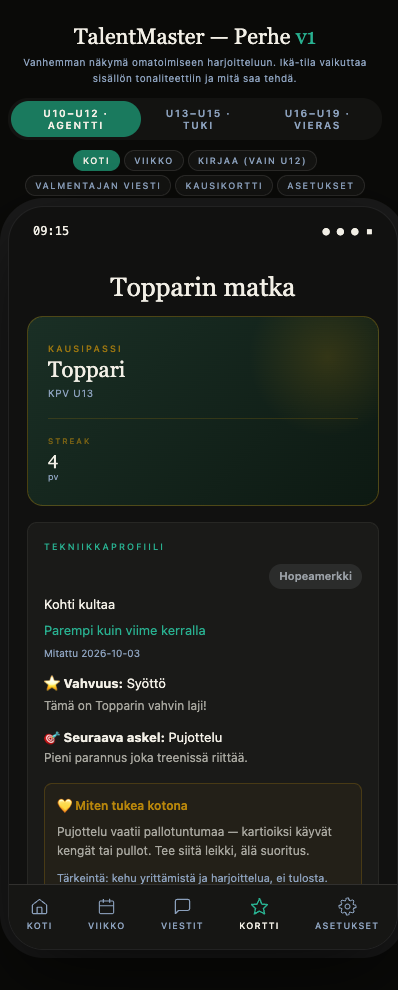
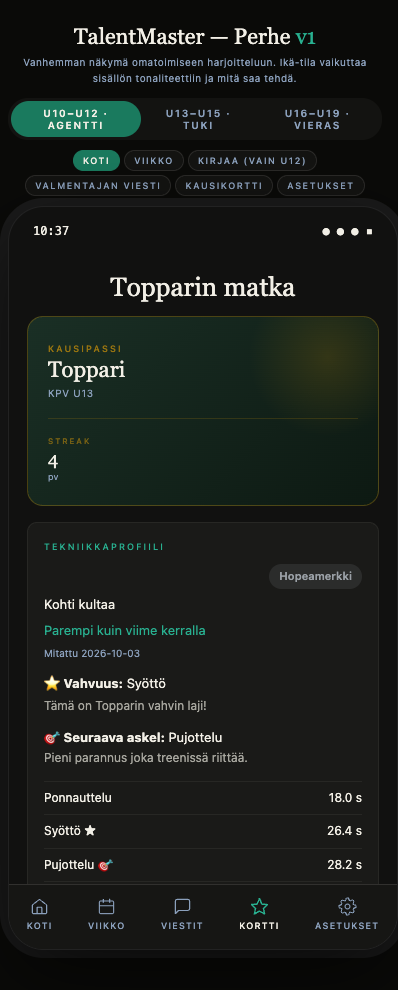
0a täydennys: pelaajan oma mittaus näkyy myönteisesti (tulos, MAS-arvo, oma parannus), ei rajoja/vyöhykkeitä/tavoiteviitteitä; päätöslokiin §7.22-poikkeus
- lib/tm_merkki_nakyma.js: + tmOmaParannus, tmOmaLuku (?v=2)
- Pelaaja_v7: lajitulokset, H-H-tulokset, Paransit N s, MAS-arvo (ei vyöhykkeitä), ennen→nyt palautettu
- Vanhempi_v2: omat lajitulokset palautettu
- docs/PAATOS_7_22_OMA_MITTAUS_2026-10-19.md

Changed region(s): [[0.0905, 0.7879, 0.9045, 0.9091], [0.1508, 0.2121, 0.1809, 0.2424], [0.0905, 0.2121, 0.1206, 0.2424]]

diff --git a/TalentMaster_Pelaaja_v7.html b/TalentMaster_Pelaaja_v7.html
@@ -555,7 +555,7 @@ input::placeholder,textarea::placeholder{color:#8C8B86;opacity:1}
 <script src="lib/tm_tanaan_kentta.js?v=4"></script>   <!-- K1: rA1Kentta-lohkot (tila, osat, päivän treeni, kuittaus) · C: tmKenttaPelaajalle -->
 <script src="lib/tm_mediaviesti.js?v=8"></script>   <!-- R6.4: linkin tunnistus + tyyppinimet (pelaajan klippi-ketju) -->
 <script src="lib/tm_klippi_perhe.js?v=3"></script>   <!-- R6.4 PR 2: Valmentajalta klippi (Tänään) -->
-<script src="lib/tm_merkki_nakyma.js?v=1"></script>   <!-- palaute-näkyvyys 0a: merkkisääntö (Kohti seuraavaa, Parempi kuin viime kerralla; ei sekunteja) -->
+<script src="lib/tm_merkki_nakyma.js?v=2"></script>   <!-- palaute-näkyvyys 0a: merkkisääntö + oma mittaus (Kohti seuraavaa, oma parannus; ei rajoja) -->
 <script src="lib/tm_viikkokatsaus.js?v=2"></script>   <!-- K4: viikkokatsaus + jakson päätöskortti (Kenttä-lipun takana) -->
 <script src="lib/tm_reitin_valinta.js?v=3"></script>   <!-- K3: pelaaja valitsee seuraavan reitin + sitoumus Tänään-sivulla (Kenttä-lipun takana) -->
 <script src="lib/tm_kotiharjoitteet.js?v=1"></script>   <!-- B 3/3: jakson kotiharjoitteet (jaksofokus.tukiosa.harjoitteet snapshot) + seuran nimi lähdemerkintänä -->   <!-- K0: Kenttä-komponentti (ei vielä käytössä näkymissä) -->
@@ -1913,25 +1913,30 @@ async function _lataaTekniikka() {
   } catch (e) { console.warn('[tekniikka]', e.message); }
 }
 
-// MAS-kortti — vain sanoin (palaute-näkyvyys 0a, Tero 19.10.2026): MAS-raakaluku, harjoitteluvyöhykkeet (km/h) ja m/s-trendi POISTETTU pelaajan näkymästä.
-// Näkyy kun MAS-data olemassa; parannus kerrotaan vain sanoin ("hyvä kehityssuunta") omaan edelliseen mittaukseen verrattuna, ellei parantunut ei mitään.
+// MAS-kortti — pelaajan OMA MAS-arvo näkyy (täydennys 19.10.2026, §7.22-poikkeus oma mittaus); EI harjoitteluvyöhykkeitä (km/h-vyöhykkeet = valmentajan työkalu), EI vertailua/rajoja.
+// Parannus vain kun MAS parani ("hyvä kehityssuunta" + oma ero); heikompi tulos näytetään ilman kommenttia.
 function rMinaMAS() {
   if (!_pelaaja) return '';
   const hv = _pelaaja.hh_viimeisin || {};
   const masKmh = (_pelaaja.mas_kmh != null) ? _pelaaja.mas_kmh : (hv.mas != null ? hv.mas : null);
   if (masKmh == null) return '';
+  const masMs = (_pelaaja.mas_ms != null) ? _pelaaja.mas_ms : Math.round((masKmh / 3.6) * 100) / 100;
+  const stage = (typeof _laskeStage === 'function') ? _laskeStage(_pelaaja.syntymaVuosi, _pelaaja) : '2_rakentaja';
+  const r1 = function(x){ return Math.round(x * 10) / 10; };
   const box = function(inner){ return '<div style="background:var(--bg3);padding:20px;margin:14px 20px 0;border:.5px solid rgba(242,239,230,.08)">' + inner + '</div>'; };
   const ots = '<div style="font-family:\'Cormorant Garamond\',serif;font-size:18px;font-weight:400;color:var(--text);margin-bottom:12px;letter-spacing:.01em">' + T('juoksumoottori') + '</div>';
-  let parani = false;
+  let trend = '';
   const hist = Array.isArray(_pelaaja.mas_historia) ? _pelaaja.mas_historia.filter(function(x){ return x != null; }) : [];
   if (hist.length >= 2) {
     const toMs = function(h){ return (h.ms != null) ? h.ms : (h.kmh != null ? h.kmh / 3.6 : null); };
     const a = toMs(hist[0]), b = toMs(hist[hist.length - 1]);
-    parani = (a != null && b != null && (b - a) > 0.05);
+    if (a != null && b != null && (b - a) > 0.05) trend = '<div style="font-size:12px;margin-top:10px;color:#28B090">↑ +' + (Math.round((b - a) * 100) / 100).toFixed(2).replace('.', ',') + ' m/s — ' + T('hyva_kehityssuunta') + '</div>';
   }
-  return box(ots
-    + '<div style="font-size:13px;color:var(--text)">' + T('vauhtisi_on_mitattu_hienoa_tyota') + '</div>'
-    + (parani ? '<div style="font-size:12px;margin-top:10px;color:#28B090">' + T('hyva_kehityssuunta') + '</div>' : ''));
+  const arvo = (stage === '3_showcase')
+    ? '<div style="display:flex;align-items:baseline;gap:10px"><div style="font-family:\'Cormorant Garamond\',serif;font-size:40px;font-weight:300;color:#28B090;line-height:1">' + masMs.toFixed(2) + '</div><div style="font-size:11px;color:#8C8B86">m/s · ' + r1(masKmh) + ' km/h</div></div>'
+    : '<div style="display:flex;align-items:baseline;gap:10px"><div style="font-family:\'Cormorant Garamond\',serif;font-size:40px;font-weight:300;color:#28B090;line-height:1">' + r1(masKmh) + '</div><div style="font-size:22px">⚡</div></div>'
+      + (stage === '1_leikkija' ? '<div style="font-size:12px;color:var(--text);margin-top:10px">' + T('mita_isompi_luku_sita_pidempaan') + '</div>' : '<div style="font-size:13px;color:var(--text);font-weight:600;margin-top:6px">' + T('aerobinen_kapasiteetti') + '</div>');
+  return box(ots + arvo + trend);
 }
 
 // §5.3 tekniikkatavoite LAPSEN KIELELLÄ — luetaan pikakentistä (§26), tkLajiViite-vertailu (window.TM_TESTIT).
@@ -2067,6 +2072,10 @@ function _minaTavoiteRivit(p, d) {
       + '<div style="font-size:12px;color:#8C8B86">' + _pT('vanhempi.tek_pieni_parannus') + '</div></div>';
   }
 
+  // 📈 Oma parannus VAIN kun parani (täydennys 19.10.2026): "Paransit kokonaisaikaasi 4 sekuntia". Ei parantunut → ei mitään. Ei merkkirajoja, ei matkaa kultaan.
+  const _par = (window.TM_MERKKI_NAKYMA && window.TM_MERKKI_NAKYMA.tmOmaParannus) ? window.TM_MERKKI_NAKYMA.tmOmaParannus(p.tk_kokonaistulos_edellinen, p.tk_kokonaistulos_viimeisin) : null;
+  if (_par) h += '<div style="font-size:13px;color:#28B090;margin-top:10px">' + _pT('paransit_kokonaisaikaasi_n_sekunti', { n: window.TM_MERKKI_NAKYMA.tmOmaLuku(_par.ero) }) + '</div>';
+
   // 🔥 Kultaikkuna lapsen kielellä, VAIN ≤ 12 v — EI uhkakehystä
   if (ika != null && ika <= 12) {
     h += '<div style="font-size:12px;color:#8C8B86;margin-top:10px">' + _pT('nyt_on_paras_ika_oppia') + '</div>';
@@ -2150,7 +2159,19 @@ function rMinaFyysinenTavoite() {
   const edel = _minaHhEdellinen(p);
   if (p.hh_taso != null && edel.taso != null && (p.hh_taso - edel.taso) > 0) {
     h += '<div style="font-size:14px;color:#28B090;margin-top:10px">' + T('kehityit_viime_kerrasta_hienoa') + '</div>';
-    // Palaute-näkyvyys 0a: aiemmat → nykyiset luvut (sekunnit/cm) poistettu; parannus vain sanoin.
+    // Sekunnit/senttimetrit saa näyttää (EI tasolukuja, EI vertailua muihin, §7.22): ensimmäinen parantunut mittaus.
+    const _tk = ['lin30m', 'lin10m', 'kasirata', 'cmj'];
+    for (let i = 0; i < _tk.length; i++) {
+      const k = _tk[i], nyt = _minaHhArvo(p, k), ennen = edel.hv ? edel.hv[k] : null;
+      const m = (typeof HH_TESTI_MAP !== 'undefined') ? HH_TESTI_MAP[k] : null;
+      if (nyt == null || ennen == null || !m || isNaN(nyt) || isNaN(ennen)) continue;
+      const parempi = m.pienempi ? (Number(nyt) < Number(ennen)) : (Number(nyt) > Number(ennen));
+      if (!parempi) continue;
+      const r1 = function (x) { return Math.round(Number(x) * 10) / 10; };
+      h += '<div style="font-size:13px;color:#8C8B86;margin-top:2px">' + _MINA_HHNIMI[k] + ': ' + r1(ennen) + ' ' + m.yksikko + ' → ' + r1(nyt) + ' ' + m.yksikko + '</div>';
+      break;
+    }
+    // oma parannus (täydennys 19.10.2026): ensimmäinen parantunut mittaus ennen → nyt; ei tavoitelukua
   }
   // Huipputaso (paras luokka jossain testissä) → ei tavoitetta, mutta positiivinen viesti. Tasolukua EI näytetä.
   let huippu = false;
@@ -2456,7 +2477,7 @@ function rMinaTekniikkaprofiili() {
         + d.hhTekn.map(function (r) {
             return '<div style="display:flex;justify-content:space-between;align-items:baseline;padding:8px 0;border-top:.5px solid rgba(242,239,230,.08)">'
               + '<span style="font-size:14px;color:var(--text)">' + r.nimi + '</span>'
-              + '<span style="font-size:15px;color:#28B090">⚽</span></div>';   // palaute-näkyvyys 0a: ei sekunteja
+              + '<span style="font-family:\'DM Sans\',sans-serif;font-size:15px;color:#28B090">' + r.aika + ' s</span></div>';   // oma mittaus (täydennys 19.10.2026)
           }).join('')
         + '<div style="font-size:12px;color:#8C8B86;margin-top:10px">' + T('tekniikkakisassa_naet_viela_enemma') + '</div>';
     } else {
@@ -2467,6 +2488,7 @@ function rMinaTekniikkaprofiili() {
       + _body + '</div>';
   }
   const merkkiVari = { kulta: '#D4AF37', hopea: '#9AA0A6', pronssi: '#B87333' };
+  const lajiNimi = { ponnauttelu: T('vanhempi.laji_ponnauttelu'), syotto: T('vanhempi.laji_syotto'), pujottelu: T('vanhempi.laji_pujottelu'), kuljetus_laukaus: T('vanhempi.laji_kuljetus_laukaus') };
   let h = '<div style="background:var(--bg3);padding:20px;margin:14px 20px 0;border:.5px solid rgba(242,239,230,.08)">';
   h += '<div style="font-family:\'Cormorant Garamond\',serif;font-size:18px;font-weight:400;color:var(--text);margin-bottom:12px;letter-spacing:.01em">' + T('vanhempi.tek_profiili') + '</div>';
   // §7.22/§34: TKI-lukua EI näytetä pelaajalle (indeksi = tasoluku). Palaute-näkyvyys 0a (Tero 19.10.2026): nykyinen merkki + "Kohti {seuraava}"
@@ -2477,6 +2499,23 @@ function rMinaTekniikkaprofiili() {
   if (MN && MN.parempi) h += '<div style="font-size:13px;color:#28B090;margin-top:6px">' + T('vanhempi.merkki_parempi') + '</div>';
   // §5.3 tavoiterivit (pikakentät) — korvaa vanhat yksinkertaiset vahvuus/kehityskohde-rivit; fallback sisällä
   h += _minaTavoiteRivit(_pelaaja, d);
+  // Lajit sekunteina (lyhyempi = nopeampi). §7.22: EI palkkeja — täyttö oli suhde eliittiviitteeseen (= normivertailu +
+  // edistymispalkki). Itsevertailuun ei ole per-laji-historiaa → näytetään oma aika + ★ vahvuus / 🎯 seuraava askel.
+  const lajit = ['ponnauttelu', 'syotto', 'pujottelu', 'kuljetus_laukaus'];
+  const arvo = (id) => { const x = d.testit[id]; if (x == null) return null; if (typeof x === 'object') return (x.tulos != null ? x.tulos : x.paras); return x; };
+  const vals = lajit.map(id => ({ id: id, val: parseFloat(arvo(id)) })).filter(x => !isNaN(x.val));
+  if (vals.length) {
+    const tkiV = _pelaaja && _pelaaja.tki_vahvuus, tkiK = _pelaaja && _pelaaja.tki_kehityskohde;
+    h += '<div style="margin-top:12px;display:flex;flex-direction:column">';
+    vals.forEach(x => {
+      const mark = (x.id === tkiV) ? ' ★' : (x.id === tkiK) ? ' 🎯' : '';
+      h += '<div style="display:flex;justify-content:space-between;align-items:baseline;padding:7px 0;border-top:.5px solid rgba(242,239,230,.08)">'
+        + '<span style="font-size:13px;color:var(--text)">' + (lajiNimi[x.id] || x.id) + mark + '</span>'
+        + '<span style="font-family:\'DM Sans\',sans-serif;font-size:14px;color:#28B090">' + x.val.toFixed(1) + ' s</span></div>';
+    });
+    h += '</div>';
+  }
+  // Oma parannus ('Paransit kokonaisaikaasi N sekuntia') tulee _minaTavoiteRivit:stä (tmOmaParannus) — ei tuplana tässä.
   h += '</div>';
   return h;
 }

diff --git a/tests/palaute_nakyvyys_0a.test.js b/tests/palaute_nakyvyys_0a.test.js
@@ -42,12 +42,12 @@ describe('tmMerkkiNakyma — yksi sääntö pelaajalle ja huoltajalle', () => {
   });
 });
 
-describe('lähdekoodivartija: pelaajan ja huoltajan merkki-/tekniikka-/vauhtipinnoilla ei sekunteja, matkaa eikä tasokuvauksia', () => {
+describe('lähdekoodivartija: pelaajan ja huoltajan pinnoilla ei rajoja, vyöhykkeitä, tavoiteviitteitä eikä matkaa merkkiin', () => {
   const PINNAT = [[PEL, 'function rMinaTekniikkaprofiili('], [PEL, 'function _minaTavoiteRivit('], [PEL, 'function rMinaMAS('], [PEL, 'function rMinaFyysinenTavoite('],
     [PEL, 'function _tekTavoiteSaate('], [V2, 'function rVanhempiTekniikka(']];
-  it.each(PINNAT.map(([s, f]) => [f, pura(s, f)]))('%s: ei " s"-yksikköä, km/h, m/s, nuolta eikä matka/tavoite-lukuja', (f, koodi) => {
-    const koodiIlmanKommentteja = koodi.replace(/\/\/[^\n]*/g, '');
-    expect(koodiIlmanKommentteja).not.toMatch(/' s'|\+ ' s\b| s<\/|km\/h|m\/s|toFixed|gap_s|tkSekuntibudjetti|matka_tavoite|tek_matka|tek_nyt_tavoite|paransit|→ '/);
+  it.each(PINNAT.map(([s, f]) => [f, pura(s, f)]))('%s: ei vyöhykkeitä, tavoite-/viiterajoja, matkaa eikä mitalirajoja', (f, koodi) => {
+    const k = koodi.replace(/\/\/[^\n]*/g, '');
+    expect(k).not.toMatch(/gap_s|tkSekuntibudjetti|matka_tavoite|tek_matka|tek_nyt_tavoite|tkLajiViite|tkValitavoite|_minaValitavoite|harjoitteluvyohyk|kevyt_alle|kehittava|kova_yli|perus_65|kehitys_80|huippu_95|masKmh \* 0|T\('tavoite'\)/);
   });
   it('Pelaaja: ADAR/FYS/PSY-tasokuvaukset ja "A/B mitattu" -rengas poissa pelaajan kortilta', () => {
     expect(PEL).not.toMatch(/TM_ADAR_RUBRIIKKI\.alyTaso\(|TM_KORTTI_RUBRIIKIT\.(fysTaso|psyTaso)\(|a_b_mitattu|_fcRengasSVG|F\.rengas/);
@@ -65,6 +65,21 @@ describe('lähdekoodivartija: pelaajan ja huoltajan merkki-/tekniikka-/vauhtipin
       expect(L.fi.vanhempi[k], k).toBeTruthy(); expect(L.en.vanhempi[k], k).toBeTruthy();
       expect(odotus, k).toContain('vanhempi.' + k); expect(era['vanhempi.' + k].sv, k).toBe('');
     }
+  });
+});
+
+describe('oma mittaus (täydennys 19.10.2026): oma tulos, oma ennätys ja oma parannus näkyvät myönteisesti; heikompi tulos ilman kommenttia', () => {
+  const { tmOmaParannus, tmOmaLuku } = require('../lib/tm_merkki_nakyma.js');
+  it('tmOmaParannus: sekunnit (pienempi parempi) ja cm/km/h (suurempi parempi); heikompi/sama/puuttuva → null (ei kommenttia)', () => {
+    expect(tmOmaParannus(70, 66)).toEqual({ ero: 4 });
+    expect(tmOmaParannus(10.4, 10.1)).toEqual({ ero: 0.3 });
+    expect(tmOmaParannus(30, 33, { suurempi: true })).toEqual({ ero: 3 });
+    expect(tmOmaParannus(66, 70)).toBeNull(); expect(tmOmaParannus(66, 66)).toBeNull(); expect(tmOmaParannus(null, 66)).toBeNull();
+  });
+  it('tmOmaLuku: desimaalipilkku ("Paransit 0,3 s")', () => { expect(tmOmaLuku(0.3)).toBe('0,3'); expect(tmOmaLuku(4)).toBe('4,0'); });
+  it('Pelaajan MAS-kortti: oma MAS-arvo näkyy, parannus myönteisesti, vyöhykkeitä ei', () => {
+    const koodi = pura(PEL, 'function rMinaMAS(');
+    expect(koodi).toMatch(/masKmh/); expect(koodi).toMatch(/hyva_kehityssuunta/);
   });
 });
 

diff --git a/tests/kortit_7_22_vahti.test.js b/tests/kortit_7_22_vahti.test.js
@@ -100,7 +100,7 @@ describe('§7.22-vahti · Pelaaja_v7 renderöi rikkaalla datalla ilman tasolukuj
       expect(fc).toContain('✓');
     });
   }
-  it('Tekniikkaprofiili: ei TKI-lukua, ei eliittisuhde-palkkeja, ei negatiivista trendiä; EI sekunteja; merkki + "Kohti seuraavaa" (palaute-näkyvyys 0a)', () => {
+  it('Tekniikkaprofiili: ei TKI-lukua, ei eliittisuhde-palkkeja, ei negatiivista trendiä; oma tulos näkyy neutraalisti; merkki + "Kohti seuraavaa" (palaute-näkyvyys 0a + täydennys)', () => {
     const c = pelaajaCtx(rikas(13, { tk_kokonaistulos_edellinen: 70, tk_kokonaistulos_viimeisin: 66 }));
     c._tekniikkaData = { tki: 72, merkki: 'hopea', vahvuudet: [], kehityskohteet: [], testit: { syotto: 9.2, pujottelu: 12.4 }, trendi: { ero: 3, parani: false }, kpl: 2 };
     const h = c.rMinaTekniikkaprofiili();
@@ -108,7 +108,7 @@ describe('§7.22-vahti · Pelaaja_v7 renderöi rikkaalla datalla ilman tasolukuj
     skannaa(tx, 'tekniikka');
     expect(tx).not.toContain('72');
     expect(h, 'palkin täyttö = suhde eliittiviitteeseen').not.toMatch(/width:\s*\d+%/);
-    expect(tx).not.toContain('9.2'); expect(tx).not.toMatch(/\b\d+(\.\d+)? s\b/);
+    expect(tx).toContain('9.2 s'); expect(tx).not.toMatch(/matka|vyöhyk|alle \d/i);   // oma tulos saa näkyä (täydennys 19.10.2026), rajat/vyöhykkeet eivät
     expect(tx).toContain(LANG.TM_LANG.fi.pelaaja.tk_merkki_hopea); expect(tx).toContain('Kohti kultaa'); expect(tx).toContain('Parempi kuin viime kerralla');
     const c2 = pelaajaCtx(rikas(13, { tk_kokonaistulos_edellinen: 66, tk_kokonaistulos_viimeisin: 70 }));   // ei parantunut → ei mitään vertailutekstiä
     c2._tekniikkaData = c._tekniikkaData;
@@ -180,13 +180,13 @@ describe('§7.22-vahti · Vanhempi_v2 (huoltaja)', () => {
     expect(tx).toContain('Streak'); expect(tx).toContain('9');
     expect(tx).toContain('Omat ennätykset'); expect(tx).toContain('4.0 s');
   });
-  it('tekniikka: ei TKI-lukua eikä eliittisuhde-palkkeja; EI sekunteja; merkki + Kohti seuraavaa + vahvuus + miten tukea (palaute-näkyvyys 0a)', () => {
+  it('tekniikka: ei TKI-lukua eikä eliittisuhde-palkkeja; oma tulos; merkki + Kohti seuraavaa + vahvuus + miten tukea (palaute-näkyvyys 0a)', () => {
     const h = vanhempiCtx(lapsi).rVanhempiTekniikka();
     const tx = teksti(h);
     skannaa(tx, 'huoltajan tekniikka');
     expect(tx).not.toContain('72');
     expect(h).not.toMatch(/width:\s*\d+%/);
-    expect(tx).not.toContain('9.2'); expect(tx).not.toMatch(/\b\d+(\.\d+)? s\b/); expect(tx).not.toMatch(/matka|→/i);
+    expect(tx).toContain('9.2 s'); expect(tx).not.toMatch(/matka|→|tavoite/i);   // oma tulos näkyy; ei tavoite-/rajalukuja
     expect(tx).toContain('Kohti kultaa'); expect(tx).toContain('Parempi kuin viime kerralla'); expect(tx).toContain(LANG.TM_LANG.fi.vanhempi.tek_miten_tukea);
   });
   it('tekniikka: ylin merkki → vain se (ei "Kohti"); ei parantunut → ei vertailutekstiä', () => {

diff --git a/TalentMaster_Vanhempi_v2.html b/TalentMaster_Vanhempi_v2.html
@@ -139,7 +139,7 @@ body.demo-mode #devChrome{display:block}
 <script src="lib/tm_kentta.js?v=5"></script>   <!-- K0: Kenttä-komponentti (ei vielä käytössä näkymissä) -->
 <script src="lib/tm_mediaviesti.js?v=8"></script>   <!-- R6.4: linkin tunnistus + tyyppinimet -->
 <script src="lib/tm_klippi_perhe.js?v=3"></script>   <!-- R6.4 PR 2: Katsokaa yhdessä / keskustelu -->
-<script src="lib/tm_merkki_nakyma.js?v=1"></script>   <!-- palaute-näkyvyys 0a: merkkisääntö (Kohti seuraavaa, Parempi kuin viime kerralla; ei sekunteja) -->
+<script src="lib/tm_merkki_nakyma.js?v=2"></script>   <!-- palaute-näkyvyys 0a: merkkisääntö + oma mittaus (Kohti seuraavaa, oma parannus; ei rajoja) -->
 <script src="lib/tm_kielletyt.js?v=1"></script>   <!-- palaute-näkyvyys 0a: sanavartija valmentajan vapaille teksteille (sama kuin Pelaaja_v7) -->
 <script src="lib/tm_appcheck.js?v=2"></script>
 <script src="lib/tm_verkko.js?v=1"></script>   <!-- verkkokatko: 1 uudelleenyritys + Yhteyskatko-ilmoitus + Sentry warning -->
@@ -1272,6 +1272,20 @@ function rVanhempiTekniikka(){
   if (L.tki_kehityskohde && _VANH_LAJINIMI[L.tki_kehityskohde]) {
     inner += `<div style="font-size:13px;color:var(--text);margin-top:10px">🎯 <b>${t('vanhempi.tek_seuraava_askel')}</b> ${t(_VANH_LAJINIMI[L.tki_kehityskohde])}
       <div style="font-size:12px;color:var(--ink2)">${t('vanhempi.tek_pieni_parannus')}</div></div>`;
+  }
+  // 5. OMAT lajitulokset sekunteina (täydennys 19.10.2026: lapsen oma mittaus saa näkyä neutraalisti). EI palkkeja, EI viitetasoa, EI tavoitetta, EI vertailua. ★ vahvuus · 🎯 seuraava askel.
+  const LAJIT = ['ponnauttelu','syotto','pujottelu','kuljetus_laukaus'];
+  const arvoOf = (id) => { const x = lajit[id + '_s']; return (x == null || isNaN(x)) ? null : Number(x); };
+  const vals = LAJIT.map(id => ({ id, val: arvoOf(id) })).filter(x => x.val != null);
+  if (vals.length) {
+    inner += `<div style="margin-top:12px;display:flex;flex-direction:column">`;
+    vals.forEach(x => {
+      const mark = (x.id === L.tki_vahvuus) ? ' ★' : (x.id === L.tki_kehityskohde) ? ' 🎯' : '';
+      inner += `<div style="display:flex;justify-content:space-between;align-items:baseline;padding:6px 0;border-top:.5px solid var(--border)">
+        <div style="font-size:12px;color:var(--text)">${_VANH_LAJINIMI[x.id]?t(_VANH_LAJINIMI[x.id]):x.id}${mark}</div>
+        <div style="font-size:12px;color:var(--text)">${x.val.toFixed(1)} s</div></div>`;
+    });
+    inner += `</div>`;
   }
   // 6. 💛 Miten tukea kotona — näkymän ydin (kehityskohteen mukaan) + pysyvä periaaterivi
   const tukiKey = (L.tki_kehityskohde || '').replace('_bonus','');

diff --git a/lib/tm_merkki_nakyma.js b/lib/tm_merkki_nakyma.js
@@ -5,6 +5,10 @@
    · tmMerkkiNakyma(p, opts) → { nykyinen: 'pronssi'|'hopea'|'kulta'|null, seuraava: 'pronssi'|'hopea'|'kulta'|null, ylin: bool, parempi: bool } | null (ei mittausta)
        opts.merkki  — jos kutsuja on laskenut merkin itse (testihetken ikä); muuten p.tki_merkki
    Aika pienempi = parempi (kokonaisaika, sekunteja); vertailu 0,1 s tarkkuudella kuten aiemmin ("paransit"), mutta luku EI koskaan näy.
+   OMA MITTAUS (Teron täydennys 19.10.2026 klo 10, §7.22-poikkeus): pelaajan OMA tulos, oma ennätys ja oma parannus saavat näkyä myönteisesti ("Paransit 0,3 s"); heikompi tulos näytetään neutraalisti ILMAN kommenttia
+   (ei punaista, ei alasnuolta, ei "huonompi"). Ei näy: valmentajan arviot lukuina, vertailu muihin, etäisyys merkkirajaan, mitalirajat, tavoite-/viiterajat, harjoitusvyöhykkeet.
+   · tmOmaParannus(edellinen, viimeisin, opts) → { ero: number > 0 } | null — VAIN kun tulos parani (opts.suurempi = true kun suurempi on parempi, esim. cm/km/h; oletus pienempi = parempi, sekunnit); tark 0,1
+   · tmOmaLuku(n, desim) → suomalainen desimaalipilkku ("0,3")
    Dual-export: module.exports || window.TM_MERKKI_NAKYMA.
 ════════════════════════════════════════════════════════════════════════ */
 (function (root) {
@@ -24,6 +28,12 @@
     var parempi = ed != null && vi != null && Math.round((ed - vi) * 10) / 10 > 0;
     return { nykyinen: nykyinen, seuraava: seuraava, ylin: nykyinen === 'kulta', parempi: parempi };
   }
-  var API = { tmMerkkiNakyma: tmMerkkiNakyma, JARJESTYS: JARJESTYS };
+  function tmOmaParannus(ed, vi, opts) {
+    var a = _luku(ed), b = _luku(vi); if (a == null || b == null) return null;
+    var ero = Math.round(((opts && opts.suurempi) ? (b - a) : (a - b)) * 10) / 10;
+    return ero > 0 ? { ero: ero } : null;
+  }
+  function tmOmaLuku(n, desim) { var x = Number(n); return isFinite(x) ? x.toFixed(desim == null ? 1 : desim).replace('.', ',') : ''; }
+  var API = { tmMerkkiNakyma: tmMerkkiNakyma, tmOmaParannus: tmOmaParannus, tmOmaLuku: tmOmaLuku, JARJESTYS: JARJESTYS };
   if (typeof module !== 'undefined' && module.exports) module.exports = API; else root.TM_MERKKI_NAKYMA = API;
 })(typeof window !== 'undefined' ? window : this);

diff --git a/tests/tk_protokolla_viitelahde.test.js b/tests/tk_protokolla_viitelahde.test.js
@@ -252,9 +252,8 @@ describe('a) Pelaaja_v7 Tekniikkaprofiili: H-H-sekunnit merkitty H-H-testiksi, e
     const p = { syntymaVuosi: VUOSI - 13, sukupuoli: 'M', hh_viimeisin: { pujottelu: 12.1, syotto: 11.4 }, tki_kehityskohde: 'pujottelu' };
     ctx.api.aseta(p);
     const h = tx(ctx.api.render());
-    expect(h).toContain('Pujottelu (H-H-testi)');
-    expect(h).toContain('Syöttö (H-H-testi)');
-    expect(h).not.toMatch(/\d+(\.\d+)? s\b/);   // palaute-näkyvyys 0a: ei sekunteja lapselle
+    expect(h).toContain('Pujottelu (H-H-testi) 12.1 s');   // oma mittaus näkyy (täydennys 19.10.2026)
+    expect(h).toContain('Syöttö (H-H-testi) 11.4 s');
     expect(h).not.toMatch(/Tavoite/);
     expect(ctx.api.tek(p)).toBeNull();   // ei tk_lajit → H-H-arvo ei koskaan TK-tavoitteeseen
   });
@@ -376,10 +375,9 @@ describe('b) lapsen + huoltajan tavoite AINA alueellisesta', () => {
       pura(V2, 'function rVanhempiTekniikka(')].join('\n') + '\nthis.f = rVanhempiTekniikka;', ctx);
     return tx(ctx.f());
   };
-  it('Vanhempi P10 pujottelu 28.0 → EI sekuntitavoitetta eikä sekunteja huoltajalle (palaute-näkyvyys 0a); kehityskohde-nimi säilyy', () => {
+  it('Vanhempi P10 pujottelu 28.0 → oma tulos 28.0 s näkyy, mutta EI sekuntitavoitetta eikä nuolta (täydennys 19.10.2026)', () => {
     const h = vanh(T, 28.0);
-    expect(h).not.toMatch(/→|\b28\b|\b27\b|\bs\b/);
-    expect(h).toMatch(/[Pp]ujottelu/);
+    expect(h).toContain('28.0 s'); expect(h).not.toMatch(/→|\b27\b|Tavoite/);
   });
   it('lapsen/huoltajan pinnoilla ei sanaa "loppukilpailu"', () => {
     expect(vanh(T, 28.0)).not.toMatch(/loppukilpailu/i);

diff --git a/tests/pelaaja_vauhti_viesti.test.js b/tests/pelaaja_vauhti_viesti.test.js
@@ -65,7 +65,7 @@ describe('Pelaaja_v7 · Vauhti & pallo — mitattu tulos ei koskaan "tulossa"', 
     expect(html).not.toContain('tulossa');
     expect(html).toContain('Huippuvauhtia');
     expect(html).toContain('Kehityit viime kerrasta');           // vertailu historiasta, ei hh_taso_edellinen-kentästä
-    expect(html).not.toMatch(/\d+(\.\d+)? s\b|→/);                  // palaute-näkyvyys 0a (19.10.2026): ei sekunteja lapselle; parannus vain sanoin
+    expect(html).toContain('5.9 s → 4 s');                        // oma parannus saa näkyä (täydennys 19.10.2026)
   });
 
   it('paras tulos heti ensimmäisellä kerralla (ei vertailukohtaa) → "Huippuvauhtia", ei "tulossa" eikä kehityit-riviä', () => {
@@ -92,7 +92,7 @@ describe('Pelaaja_v7 · Vauhti & pallo — mitattu tulos ei koskaan "tulossa"', 
     const html = rBox(d);
     expect(html).toContain('Nopeus');   // kehityskohteen nimi näkyy sanoin (palaute-näkyvyys 0a: ei "nyt X → tavoite Y" -lukuja)
     expect(html).toContain('Pieni parannus');
-    expect(html).not.toMatch(/\d+(\.\d+)? s\b|Tavoite|→/);
+    expect(html).not.toMatch(/Tavoite|tavoite/);   // ei tavoiteviitettä
     expect(html).not.toContain('Huippuvauhtia');
   });
 

diff --git a/tests/idp_722_pelaaja_taso_xp.test.js b/tests/idp_722_pelaaja_taso_xp.test.js
@@ -28,9 +28,9 @@ describe('S7.22 - stray tasoluku/XP-renderoinnit poistettu pelaajapinnalta', () 
   it('rMinaMAS "taso X/5" poistettu (raaka m/s . km/h jaa)', () => {
     expect(PEL).not.toContain("Aerobinen kapasiteetti: taso ' + (taso");
     expect(PEL).not.toContain("km/h · taso ' + (taso");
-    // palaute-näkyvyys 0a (19.10.2026): MAS-raakaluku ja vyöhykkeet (km/h, m/s) pois pelaajan näkymästä — vain sanoin
+    // oma MAS-arvo saa näkyä (täydennys 19.10.2026) mutta valmentajan km/h-vyöhykkeet eivät
     const alku = PEL.indexOf('function rMinaMAS('), mas = PEL.slice(alku, PEL.indexOf('\n}\n', alku));
-    expect(mas).not.toMatch(/km\/h|m\/s|toFixed|masKmh \*|masMs/);
+    expect(mas).toMatch(/r1\(masKmh\)/); expect(mas).not.toMatch(/masKmh \* 0|vyohyk|kevyt_alle|kova_yli/);
   });
   it('rVapaa "+X XP" -teksti + -pilleri poistettu', () => {
     expect(PEL).not.toContain('Saat <span style="color:var(--teal-d);font-weight:600">+${Math.round(_vaMin*0.5)} XP</span>');

diff --git a/tests/p0_6b_mitali_per_kilpailu.test.js b/tests/p0_6b_mitali_per_kilpailu.test.js
@@ -153,7 +153,7 @@ describe('viimeisin kilpailu (pikakentät) ja yhteensopivuus', () => {
 describe('käyttö Pelaaja_v7:ssä', () => {
   it('tavoiterivit eivät listaa merkkejä eikä sekunteja (palaute-näkyvyys 0a: nykyinen + "Kohti seuraavaa" näytetään rMinaTekniikkaprofiilissa)', () => {
     const l = pura('function _minaTavoiteRivit(');
-    expect(l).not.toMatch(/_tkMitalit\(p\)\.forEach\(/); expect(l).not.toMatch(/gap_s|tkSekuntibudjetti|paransit/);
+    expect(l).not.toMatch(/_tkMitalit\(p\)\.forEach\(/); expect(l).not.toMatch(/gap_s|tkSekuntibudjetti|matka_tavoite/);   // oma parannus (tmOmaParannus) saa näkyä, matka merkkiin ei
   });
   it('ei lajikohtaisia merkkejä (§31) eikä tkLajiViite-kutsuja mitalilogiikassa', () => {
     ['_tkMitalit', '_tkMitaliViimeisin', '_tkKokonaisaikaRivilta'].forEach((f) => expect(pura('function ' + f + '(')).not.toMatch(/tkLajiViite|erinomainen|hyva/));

diff --git a/tests/tk_valitavoite.test.js b/tests/tk_valitavoite.test.js
@@ -65,9 +65,9 @@ describe('Vanhempi_v2 · tekniikka: väärä/arvattu tavoite ei näy huoltajalle
     return tx(ctx.f());
   };
   // palaute-näkyvyys 0a (Tero 19.10.2026): huoltaja ei näe sekuntitavoitetta eikä sekunteja missään tapauksessa; kehityskohteen nimi säilyy.
-  it.each([12.4, 25.0, 27.5])('pujottelu %s s → EI "Nyt … → tavoite …" -riviä eikä sekunteja; kehityskohde-nimi säilyy', (s) => {
+  it.each([12.4, 25.0, 27.5])('pujottelu %s s → EI "Nyt … → tavoite …" -riviä; oma tulos näkyy; kehityskohde-nimi säilyy', (s) => {
     const h = aja(s);
-    expect(h).not.toMatch(/→/); expect(h).not.toContain(String(s)); expect(h).not.toMatch(/\b\d+(\.\d+)? s\b/);
+    expect(h).not.toMatch(/→|Tavoite/); expect(h).toContain(s.toFixed(1) + ' s');   // oma tulos näkyy, tavoitetta ei
     expect(h).toContain(LANG.TM_LANG.fi.vanhempi.tek_seuraava_askel);
   });
 });

diff --git a/tests/kortit_datakatkokset.test.js b/tests/kortit_datakatkokset.test.js
@@ -184,7 +184,7 @@ describe('a) Pelaaja_v7 · Tekniikkaprofiili lukee pikakentistä (ei alikokoelma
     expect(html).toContain('Tekniikkaprofiili');
     expect(html).not.toContain('tulossa');
     expect(html).toMatch(/Kohti (pronssia|hopeaa|kultaa)/);   // palaute-näkyvyys 0a: merkki + seuraava, ei lajisekunteja
-    expect(html).not.toMatch(/\d+(\.\d+)? s\b/);
+    expect(html).toContain('Ponnauttelu');   // omat lajitulokset näkyvät (täydennys 19.10.2026)
   });
   it('ennallaan: sama muoto kuin vanha alikokoelmalataaja (vk = sama kanoninen funktio samoista sekunneista)', async () => {
     const p = Object.assign({ id: PID }, TOPIAS, { tki_viimeisin: 70, tki_merkki: 'hopea', tki_pvm: D2, tk_lajit_pvm: D2,

diff --git a/docs/PAATOS_7_22_OMA_MITTAUS_2026-10-19.md b/docs/PAATOS_7_22_OMA_MITTAUS_2026-10-19.md
@@ -1,0 +1,12 @@
+# PÄÄTÖS · §7.22-poikkeus: pelaajan oma mittaus · Tero 19.10.2026 (klo 10, palaute-näkyvyys vaihe 0a)
+
+**Päätös:** pelaajan ja huoltajan näkymässä saa näkyä **pelaajan oma mittaus** — oma tulos (aika, matka, cm, MAS-arvo), oma ennätys ja oma kehitys myönteisesti ("Uusi ennätys!", "Paransit 0,3 s"). Tämä on tietoinen poikkeus §7.22:n "ei lukuja" -sääntöön.
+
+**Ei näy (sääntö ennallaan):** valmentajan arviot lukuina (ADAR, pisteet, tasot, tasokuvaukset) · vertailu muihin, sijoitukset ja keskiarvot · etäisyys merkkirajaan ja mitalirajat · tavoite-/viiterajat ("nyt → tavoite") · valmentajan työkaluarvot (harjoitusvyöhykkeet, km/h-vyöhykkeet).
+
+**Heikompi tulos:** näytetään neutraalisti ilman kommenttia — ei punaista, ei alasnuolta, ei sanaa "huonompi". Parannus näytetään vain kun tulos parani.
+
+**Merkit:** ennallaan — nykyinen merkki + "Kohti {seuraava}" (ylin merkki → vain se). Ei sekunteja eikä etäisyyttä merkkiin.
+
+**Toteutus:** yksi sääntö `lib/tm_merkki_nakyma.js` (`tmMerkkiNakyma`, `tmOmaParannus`, `tmOmaLuku`), jaettu Pelaaja_v7:lle ja Vanhempi_v2:lle. Testit: `tests/palaute_nakyvyys_0a.test.js`.
+**Muuttaa:** CLAUDE.md §0 / §7.22 -tulkintaa — "ei tasolukuja" koskee arvioita ja tasoja, ei pelaajan omia mittaustuloksia. (CLAUDE.md-teksti päivitetään erikseen, Teron kaista.)
